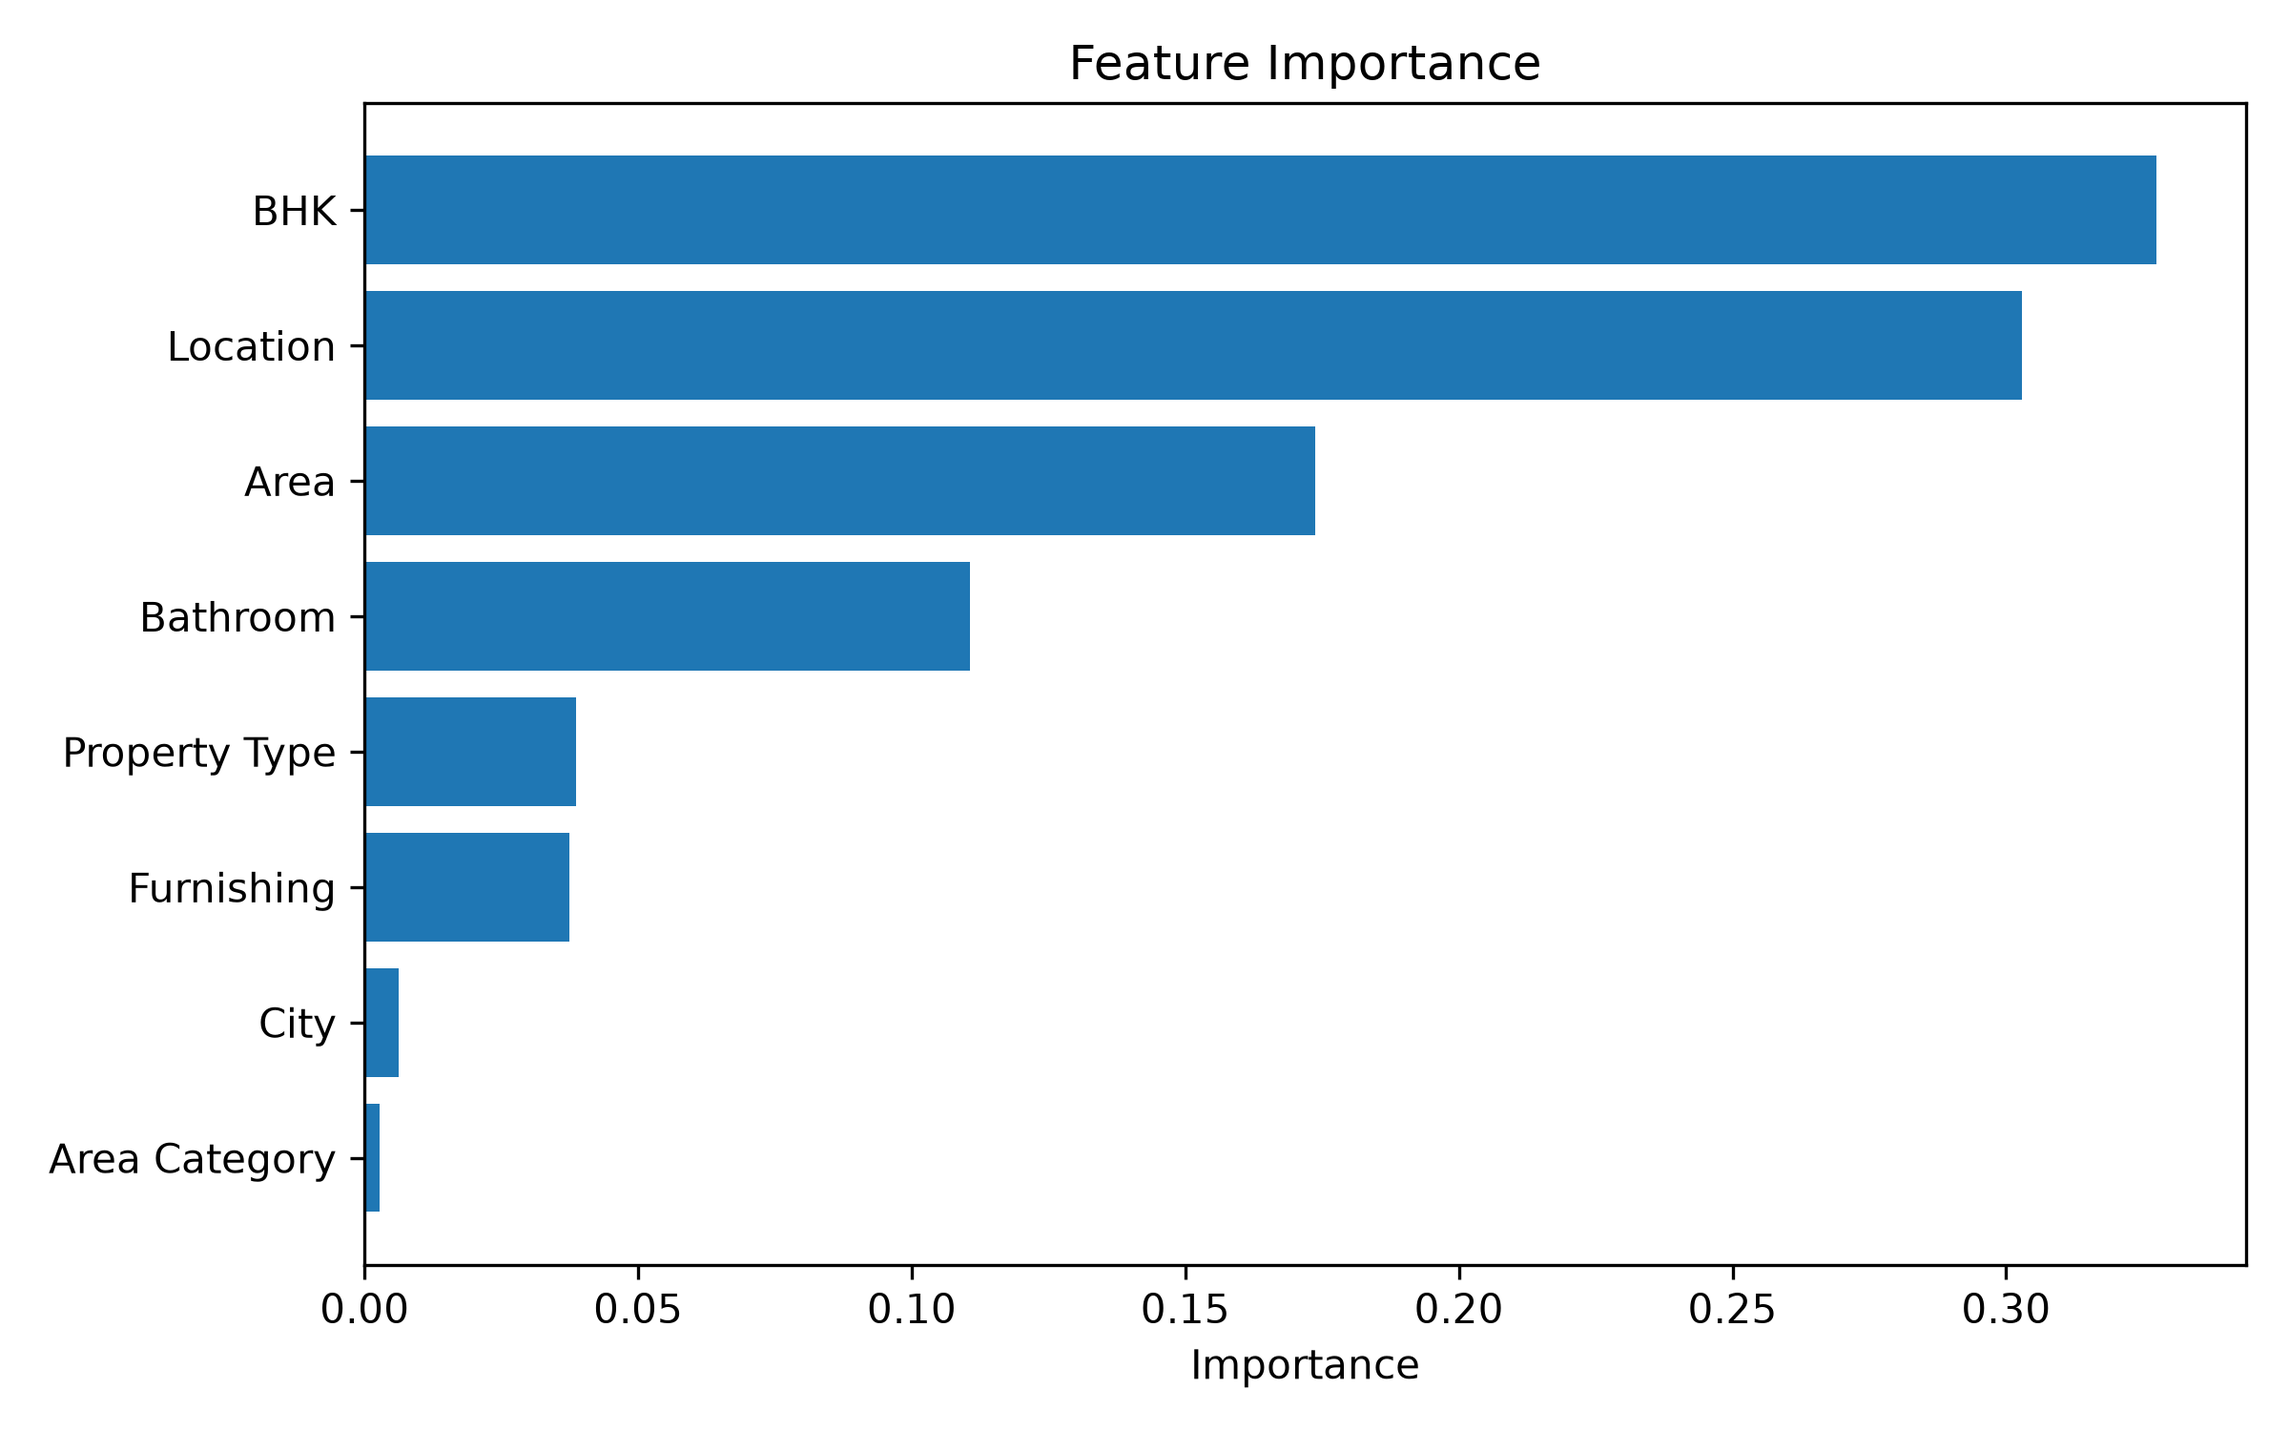
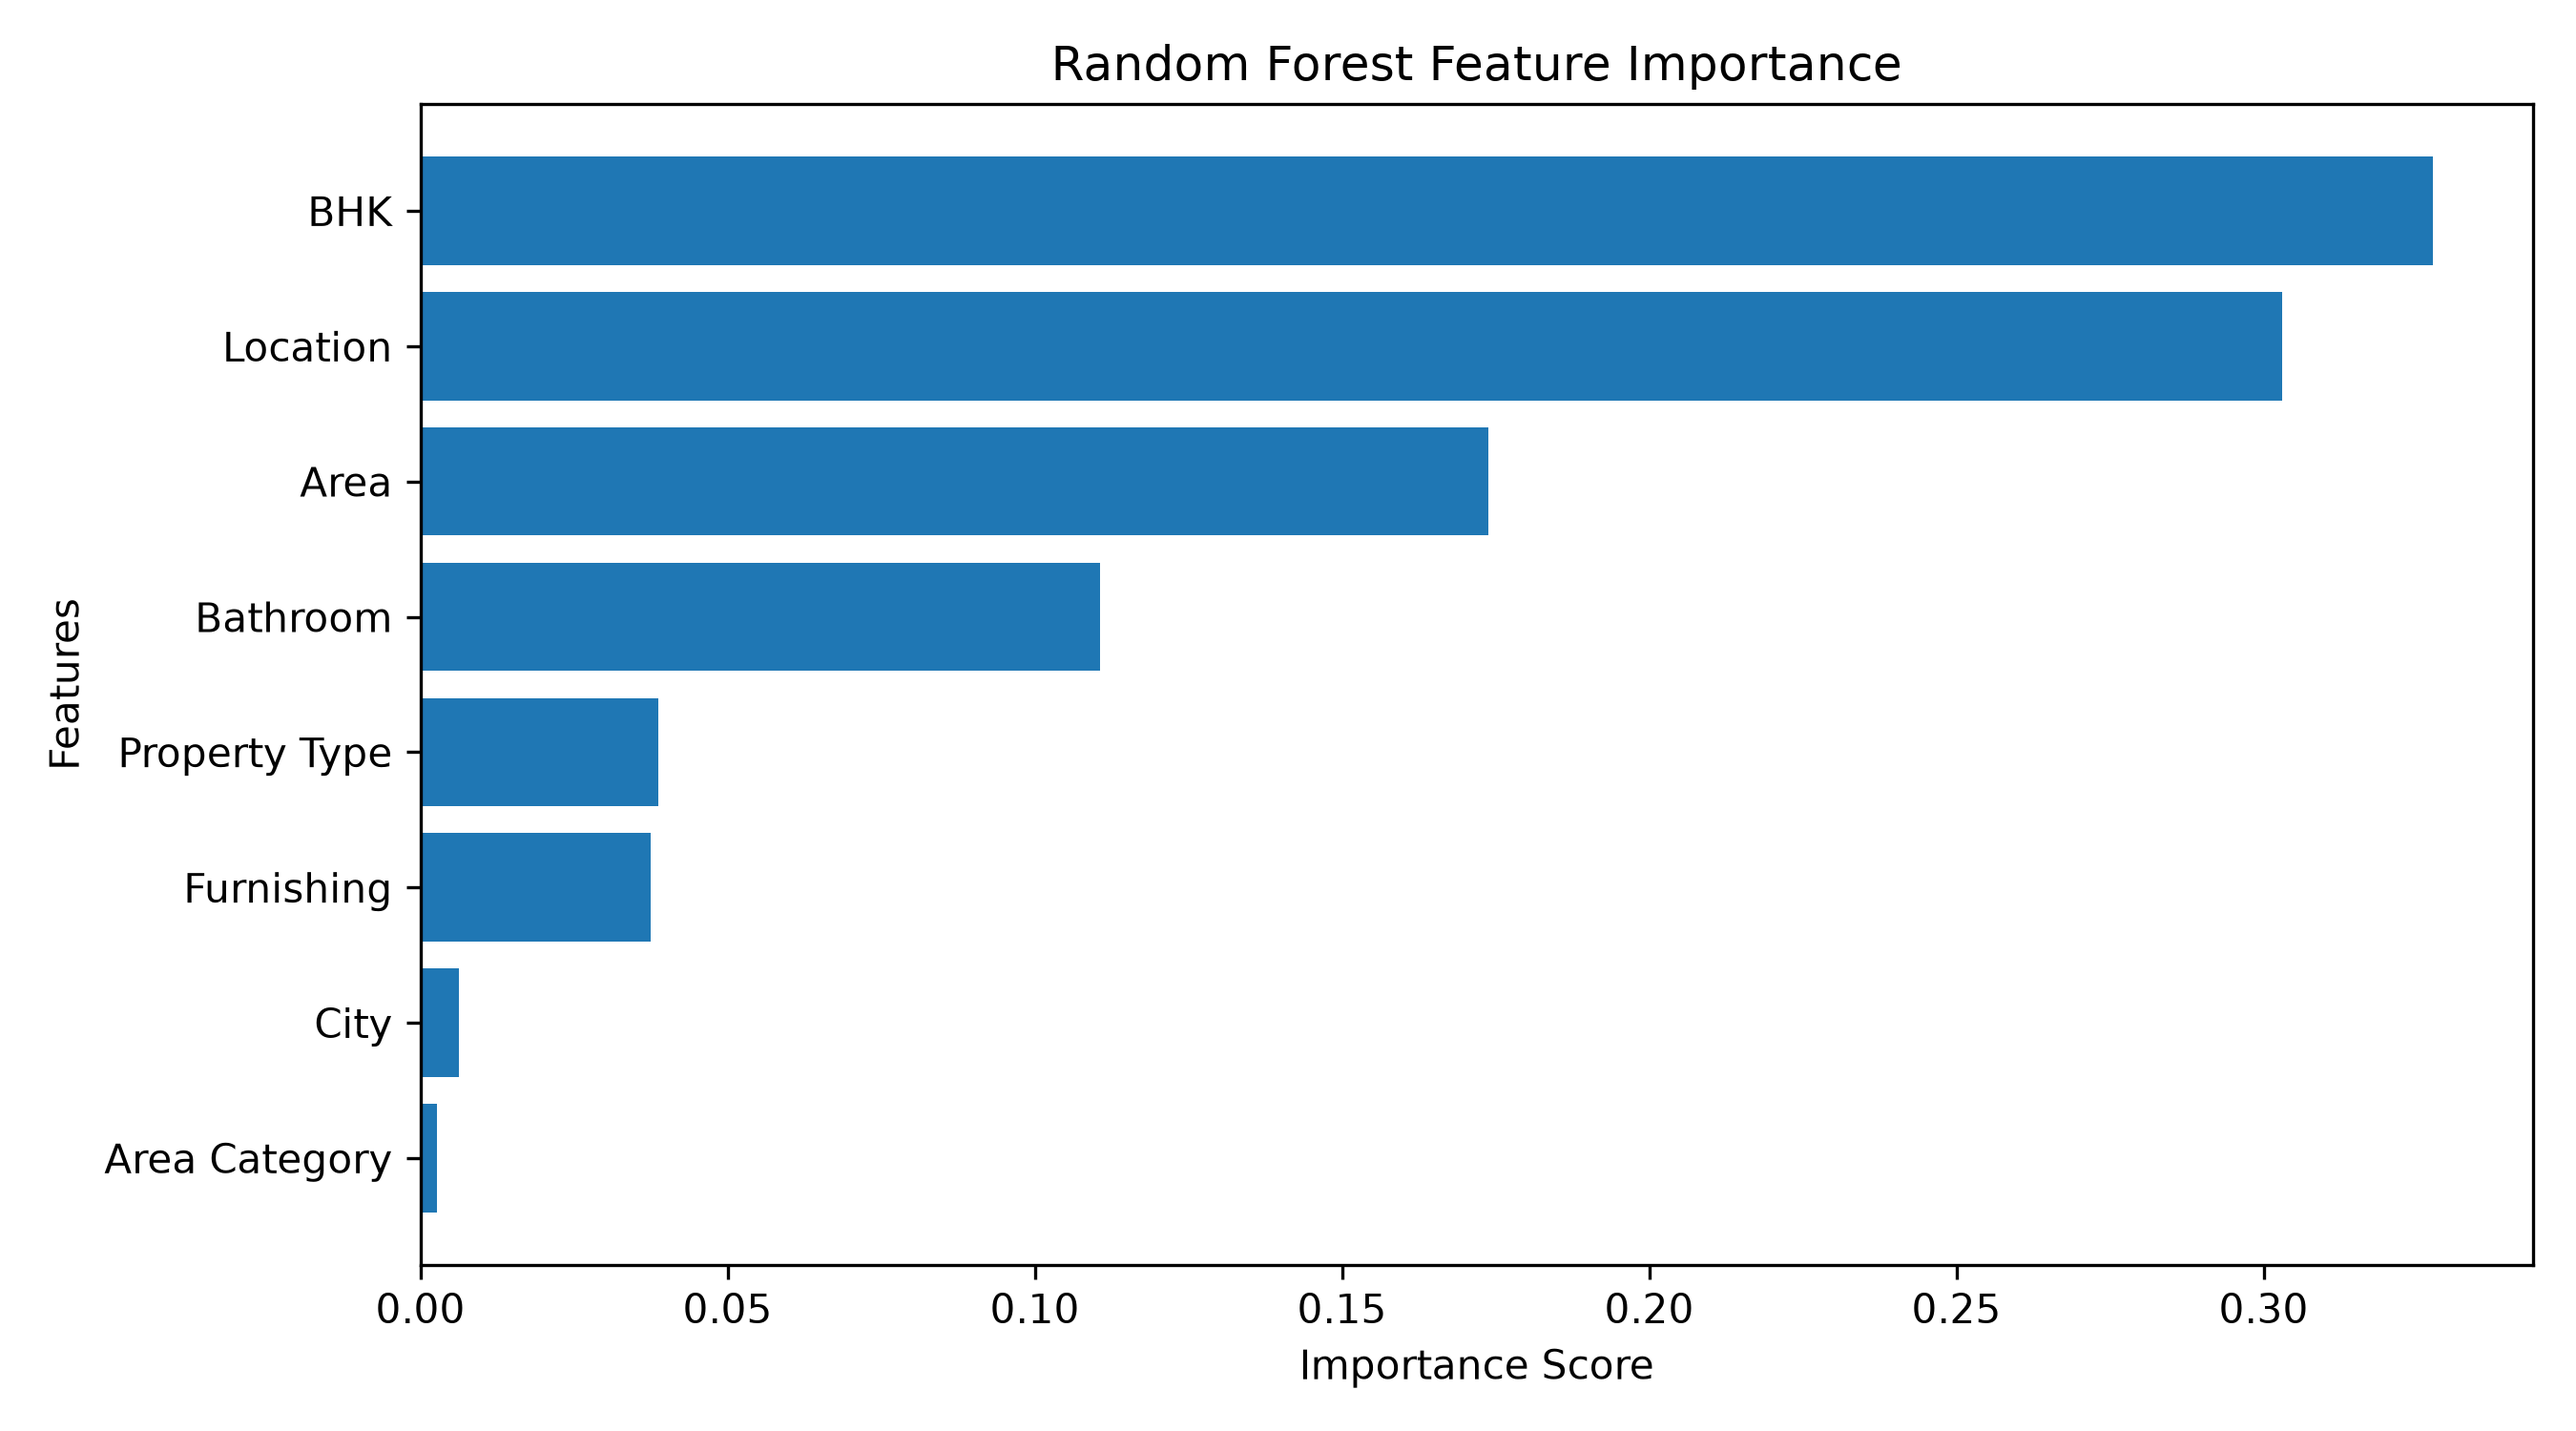
shap_explain also improved with utils.py

diff --git a/ml/shap_explain.py b/ml/shap_explain.py
@@ -1,37 +1,23 @@
 from pathlib import Path
-
 import joblib
 import shap
 import matplotlib.pyplot as plt
+import pandas as pd
+from preprocessing import preprocess_data, DEFAULT_FEATURES
+from utils import clean_feature_names
 
-from preprocessing import (
-    preprocess_data,
-    DEFAULT_FEATURES,
-)
 BASE_DIR = Path(__file__).resolve().parent.parent
-
 MODELS_DIR = BASE_DIR / "models"
-
 FIGURES_DIR = BASE_DIR / "outputs" / "figures"
 
 def load_artifacts():
     """Load trained model and fitted preprocessor."""
-
-    model = joblib.load(
-        MODELS_DIR / "random_forest_tuned.pkl"
-    )
-
-    preprocessor = joblib.load(
-        MODELS_DIR / "preprocessor.pkl"
-    )
-
+    model = joblib.load(MODELS_DIR / "random_forest_tuned.pkl")
+    preprocessor = joblib.load(MODELS_DIR / "preprocessor.pkl")
     return model, preprocessor
 
-
-
 def load_data():
-    """Load encoded test data."""
-
+    """Load encoded test data (already preprocessed)."""
     (
         _,
         X_test,
@@ -39,88 +25,52 @@ def load_data():
         _,
         _,
     ) = preprocess_data(DEFAULT_FEATURES)
-
+    
+    # Convert to dense array if it's sparse
+    if hasattr(X_test, 'toarray'):
+        X_test = X_test.toarray()
+    
     return X_test
 
-def create_explainer(model):
+def create_explainer(model, X_background=None):
     """Create SHAP TreeExplainer."""
-
+    if X_background is not None:
+        # Use background data for interventional perturbation
+        return shap.TreeExplainer(model, X_background, feature_perturbation='interventional')
     return shap.TreeExplainer(model)
 
-def calculate_shap_values(
-    explainer,
-    X_test,
-):
+def calculate_shap_values(explainer, X_test, check_additivity=False):
     """Calculate SHAP values."""
-
-    return explainer(X_test)
+    return explainer(X_test, check_additivity=check_additivity)
 
 def save_summary_plot(shap_values):
     """Save SHAP summary plot."""
-
-    FIGURES_DIR.mkdir(
-        parents=True,
-        exist_ok=True,
-    )
-
+    FIGURES_DIR.mkdir(parents=True, exist_ok=True)
     plt.figure()
-
-    shap.plots.beeswarm(
-        shap_values,
-        max_display=20,
-        show=False,
-    )
-
+    shap.plots.beeswarm(shap_values, max_display=20, show=False)
     plt.tight_layout()
-
-    plt.savefig(
-        FIGURES_DIR / "shap_summary.png",
-        dpi=300,
-    )
-
+    plt.savefig(FIGURES_DIR / "shap_summary.png", dpi=300)
     plt.close()
 
 def save_bar_plot(shap_values):
     """Save SHAP bar plot."""
-
     plt.figure()
-
-    shap.plots.bar(
-        shap_values,
-        max_display=20,
-        show=False,
-    )
-
+    shap.plots.bar(shap_values, max_display=20, show=False)
     plt.tight_layout()
-
-    plt.savefig(
-        FIGURES_DIR / "shap_bar.png",
-        dpi=300,
-    )
-
+    plt.savefig(FIGURES_DIR / "shap_bar.png", dpi=300)
     plt.close()
-
 
 def save_waterfall_plot(shap_values):
     """Save SHAP waterfall plot."""
-
-    shap.plots.waterfall(
-        shap_values[0],
-        max_display=20,
-        show=False,
-    )
-
-    plt.savefig(
-        FIGURES_DIR / "shap_waterfall.png",
-        dpi=300,
-        bbox_inches="tight",
-    )
-
+    plt.figure()
+    shap.plots.waterfall(shap_values[0], max_display=20, show=False)
+    plt.tight_layout()
+    plt.savefig(FIGURES_DIR / "shap_waterfall.png", dpi=300, bbox_inches="tight")
     plt.close()
 
 def main():
 
-    model, _ = load_artifacts()
+    model, preprocessor = load_artifacts()
 
     FIGURES_DIR.mkdir(
         parents=True,
@@ -128,33 +78,36 @@ def main():
     )
 
     X_test = load_data()
-    
-    X_test = X_test.toarray()
-    X_test = X_test[:500]
-    print(type(X_test))
-    print(X_test.shape)
 
-    explainer = create_explainer(model)
+    feature_names = clean_feature_names(
+        preprocessor.get_feature_names_out(),
+    )
+    
+    X_test = pd.DataFrame(
+        X_test,
+        columns=feature_names,
+    )
+
+    X_test = X_test[:50]
+
+    explainer = create_explainer(
+        model,
+        X_test,
+    )
 
     shap_values = calculate_shap_values(
         explainer,
         X_test,
+        check_additivity=False,
     )
 
-    save_summary_plot(
-        shap_values,
-    )
+    save_summary_plot(shap_values)
 
-    save_bar_plot(
-        shap_values,
-    )
+    save_bar_plot(shap_values)
 
-    save_waterfall_plot(
-        shap_values,
-    )
+    save_waterfall_plot(shap_values)
 
     print("\nSHAP plots saved successfully.")
-
 
 if __name__ == "__main__":
     main()
